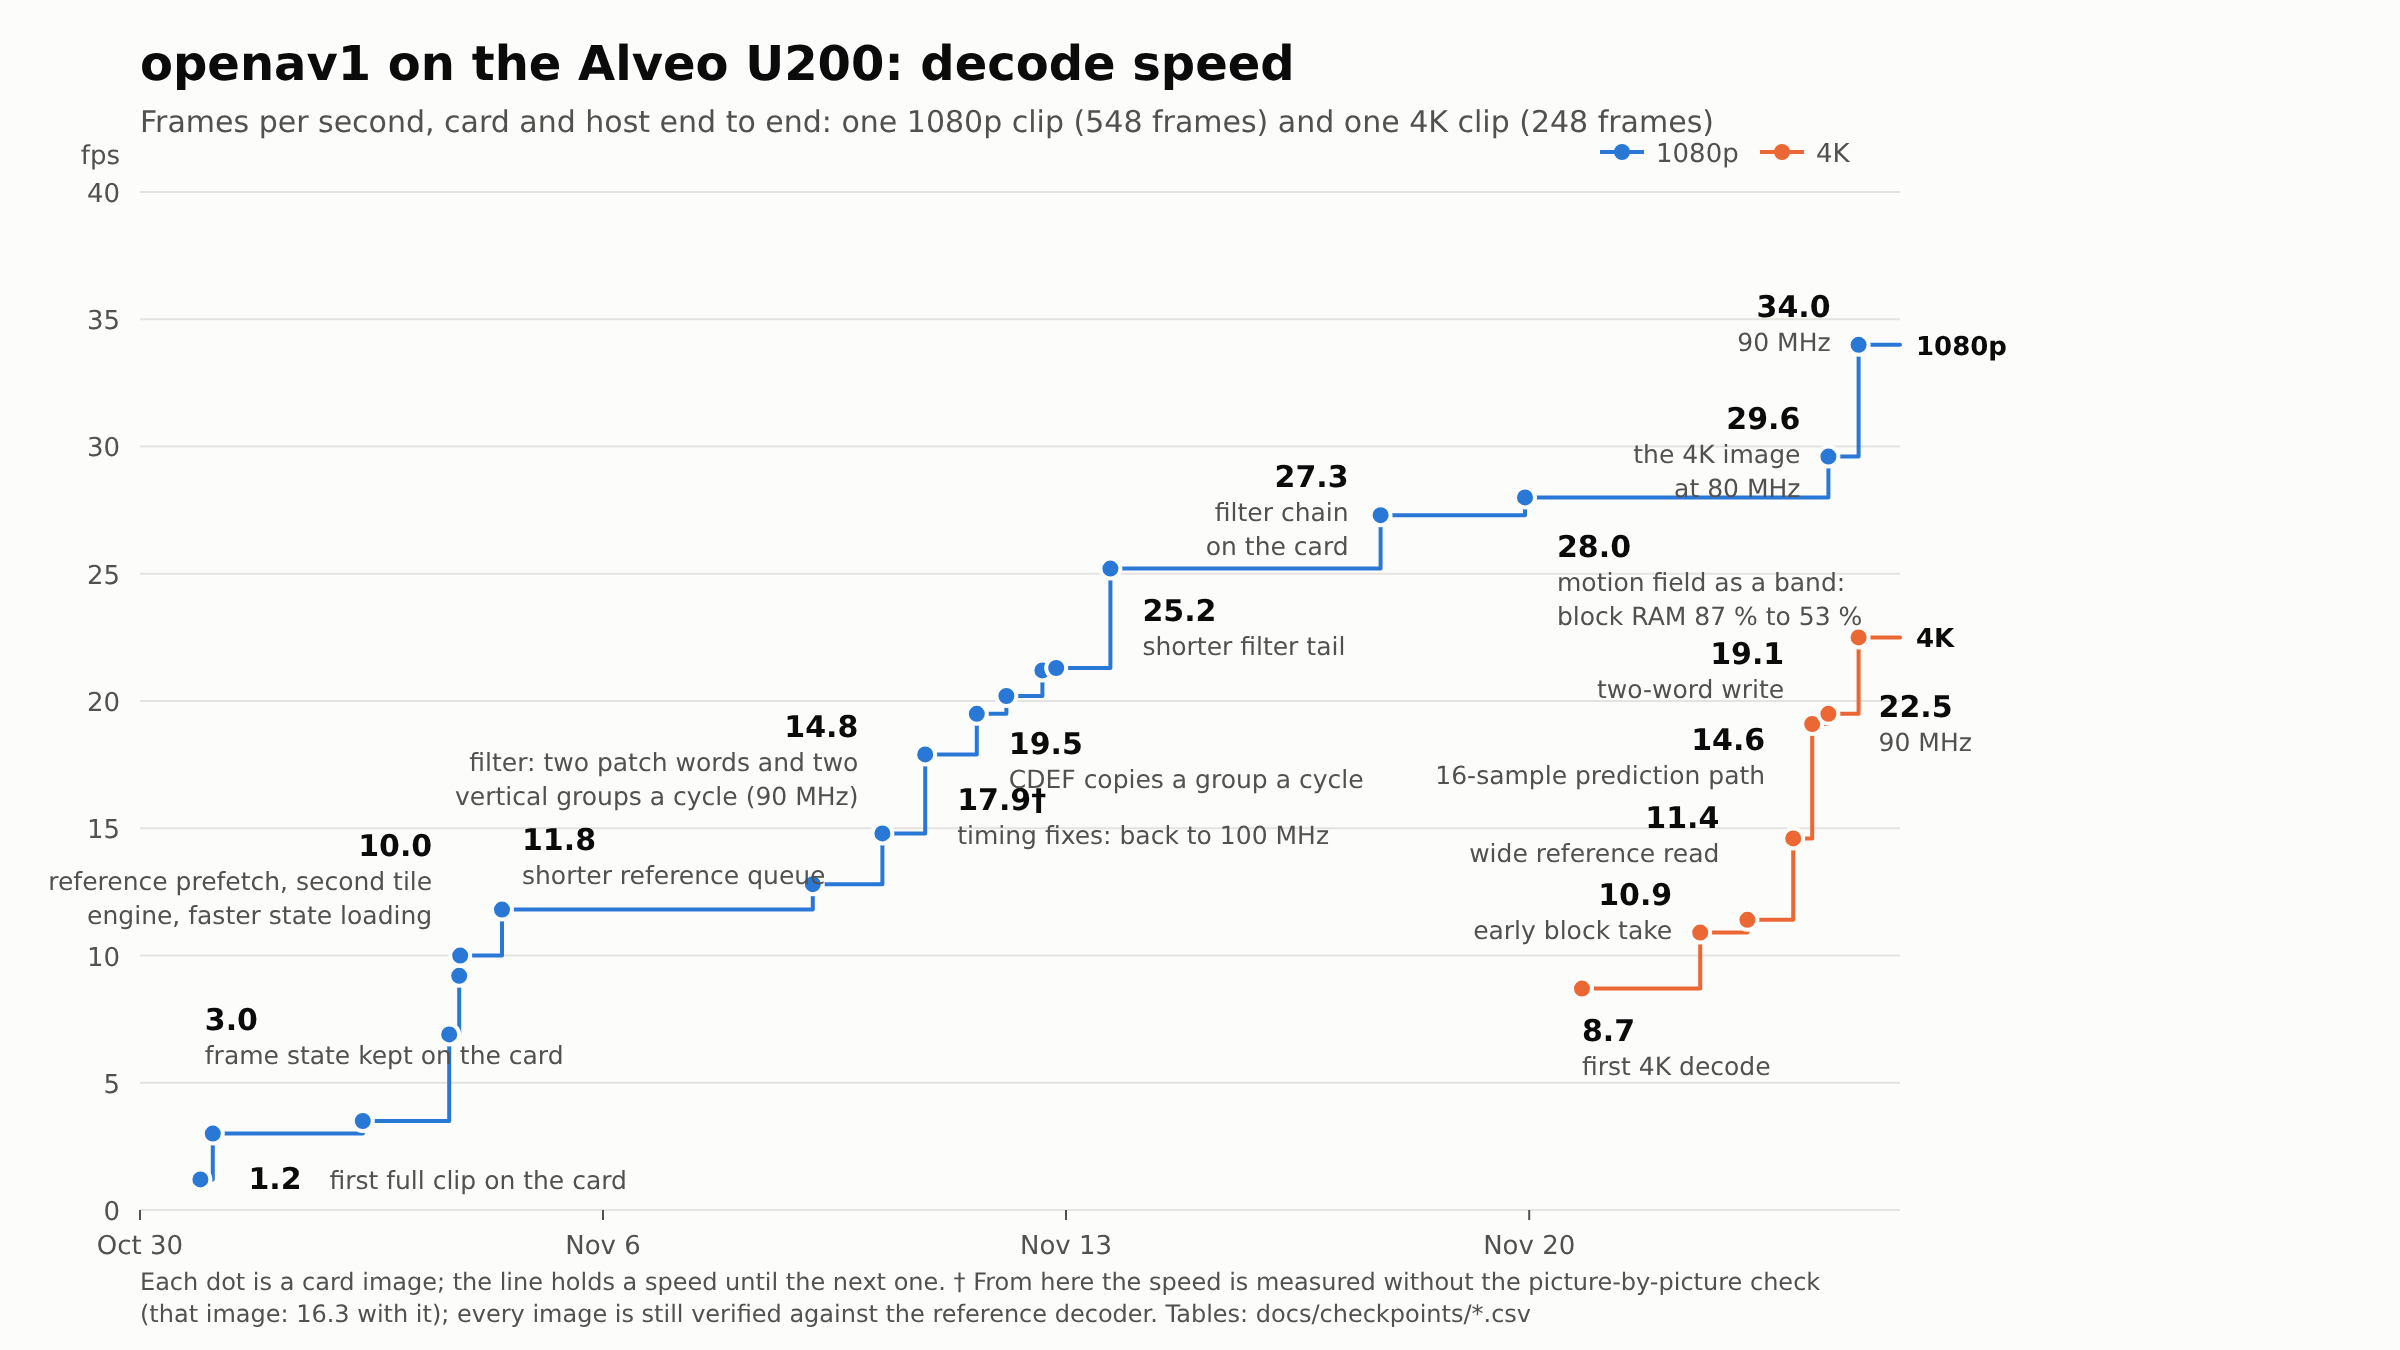
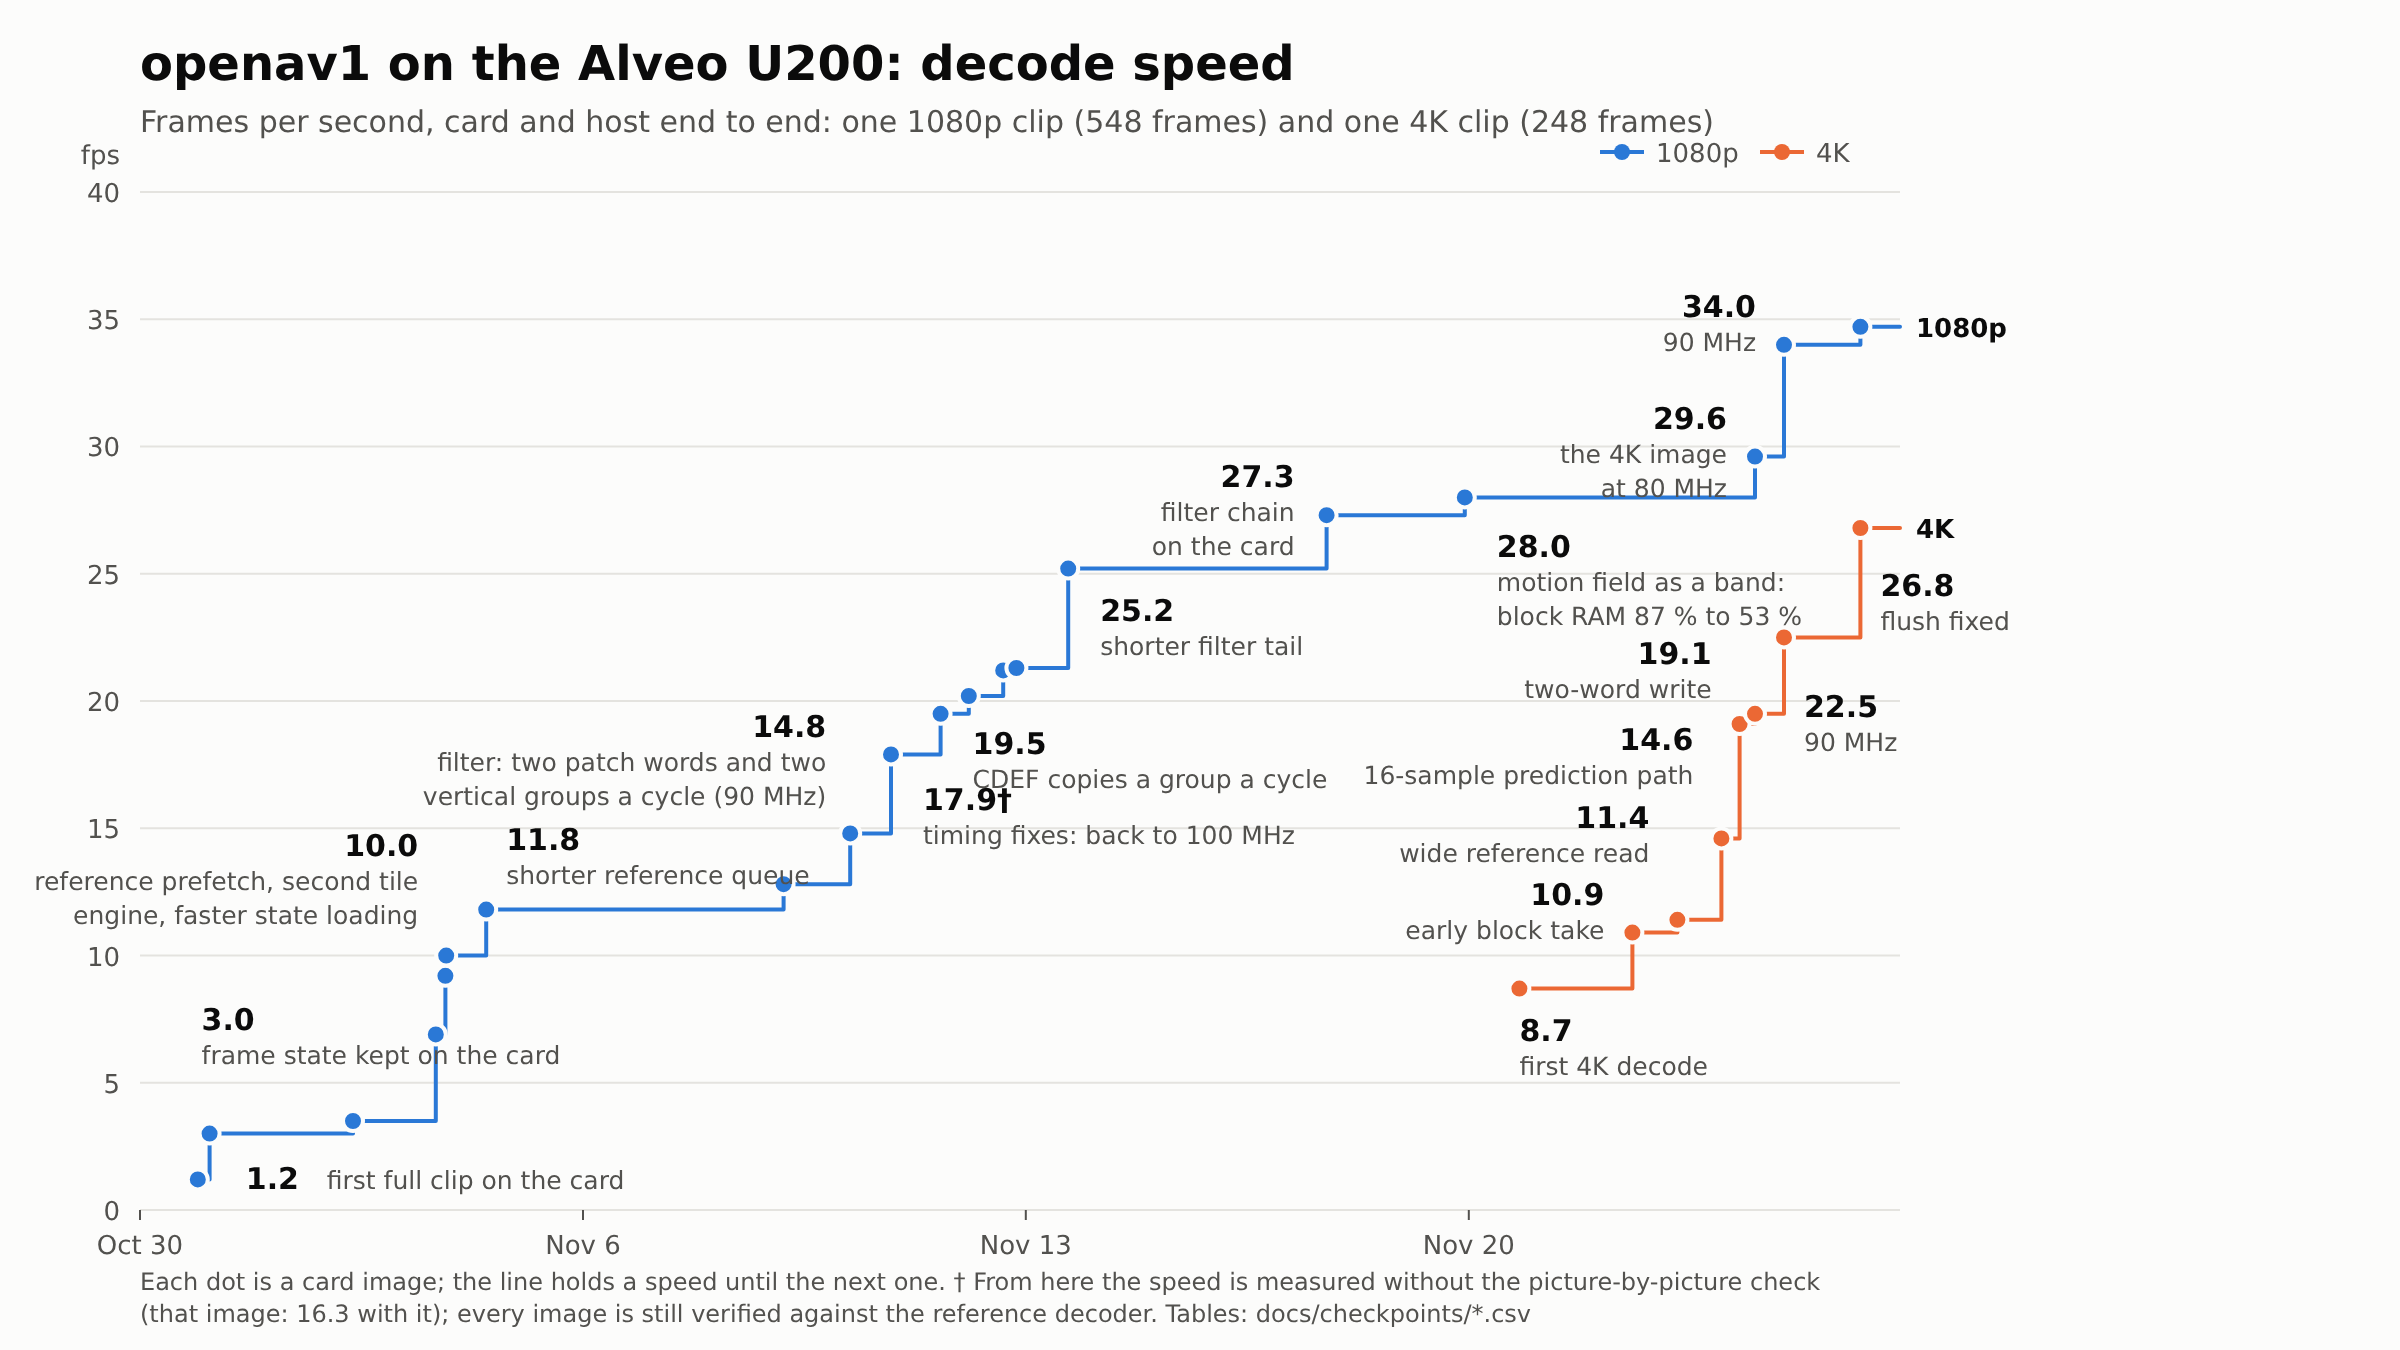
Checkpoints: K08 (4K clip 26.8 fps) and C20 (1080p clip 34.7 fps), image u200-k4wb90-8b3320a
Read on an idle host: G6aI1-vYHxM "in 9.2s (26.8 fps)" unchecked, checked 240 identical, 0 other, "in 12.1s (20.5 fps)";
in_to_tree-aom 500 of 500 identical, "UNCHECKED in 15.8s (34.7 fps)", checked "in 17.3s (31.8 fps)"; the two-tile clip
20 of 20. Build: WNS 0.001, 0 failing endpoints, WHS 0.007, WPWS 0.000 MET, "All user specified timing constraints are
met", 0 critical warnings; decoder: FBX 12 FBY 12 FRAME_WIN 5 fb2 3 SB128 1 TE 4 REF_RING 16; 719,435 LUT (60.85 %).
The 80 MHz build of the same commit (u200-k4wb80-8b3320a) also met timing (WNS 0.023) and was bit-exact at 31.1 fps on
the 1080p clip; the 90 MHz one is the standing image. Card counters at 90 MHz on the 4K clip: a frame 3,221,681 clocks
(K07: 3,706,166), the filter chain held by the flush 0 (1,608,870), block FSM in B_MC_FETCH 68.5 %.

diff --git a/README.md b/README.md
@@ -12,7 +12,7 @@ This project is built by AI, though a human is involved.
 # current status
 
 *Argon profile-0 passing*
-*1080p at 34.0 fps*
+*1080p at 34.7 fps*
 
 ![Decode speed on the Alveo U200 over time: the 1080p clip and the 4K clip](docs/checkpoints/fps.png)
 
